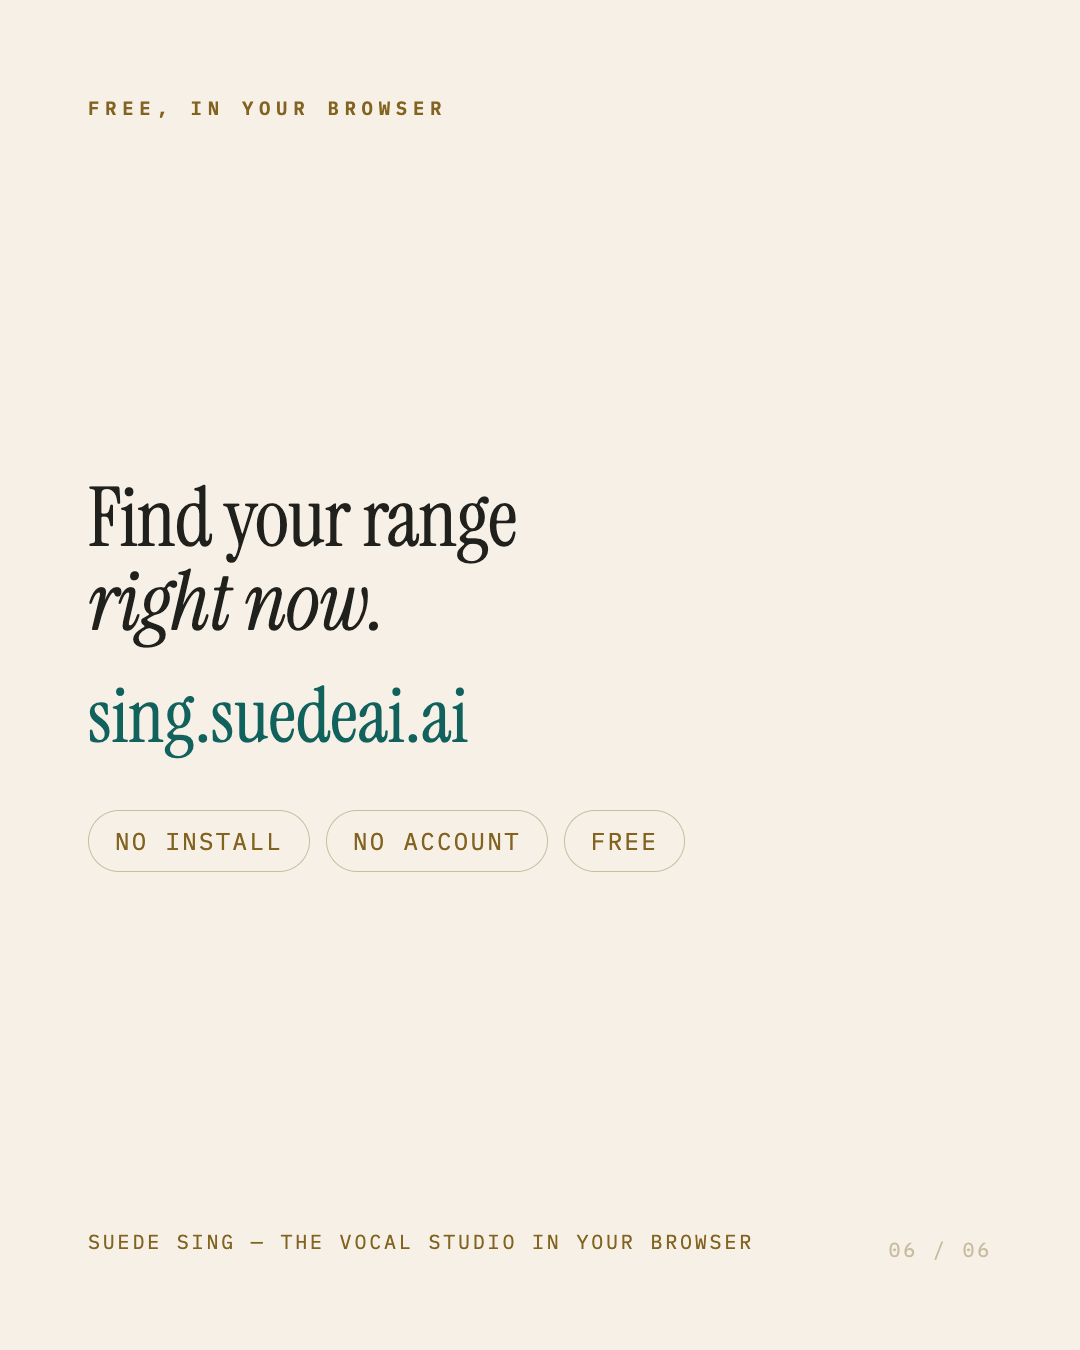
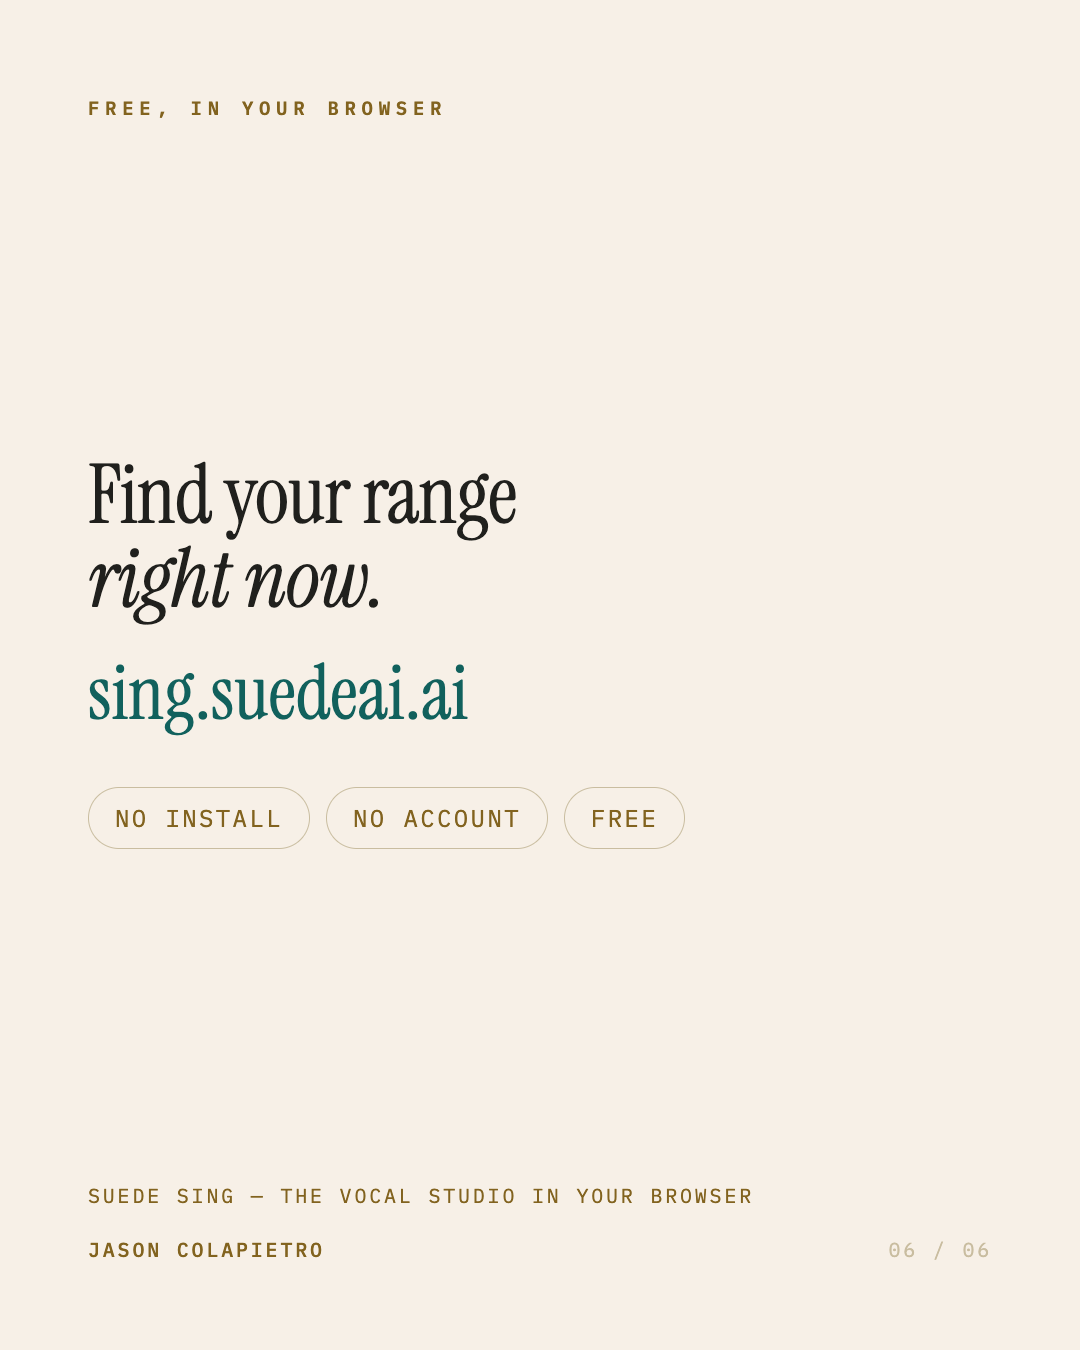
Put Jason's name on every carousel slide
These are his words — two of the three carousels quote his book chapters
verbatim, and the third draws on his own product's data — so the byline
travels with them. Bottom-left, balancing the kicker above it and paired
with the slide counter opposite.

On every slide rather than only the closing one, because carousels get
screenshotted and reposted a single slide at a time, and a byline that only
exists on slide six does not survive that.

The range carousel's closing slide already had a footer line on that
baseline; it lifts above the byline row rather than colliding with it.

diff --git a/marketing/social/assets/carousel-numbers/slides.html b/marketing/social/assets/carousel-numbers/slides.html
@@ -63,6 +63,19 @@
     font-family: "IBM Plex Mono", monospace;
     font-size: 20px; letter-spacing: 0.14em; color: var(--line2);
   }
+
+  /* Byline. These are Jason's words — the book chapters verbatim, the product
+     data from his own app — so his name travels with the slide. Bottom-left,
+     balancing the kicker top-left, and paired with the counter on the right.
+     Carousels get screenshotted a slide at a time, which is the whole reason
+     it goes on every slide rather than only the last one. */
+  .byline {
+    position: absolute; left: 88px; bottom: 88px;
+    font-family: "IBM Plex Mono", monospace;
+    font-weight: 500; font-size: 20px;
+    letter-spacing: 0.14em; text-transform: uppercase;
+    color: var(--label);
+  }
   .quote {
     font-family: "Instrument Serif", Georgia, serif;
     font-weight: 400; font-size: 76px; line-height: 1.1;
@@ -139,6 +152,7 @@
     </div>
   </div>
   <div class="count">01 / 07</div>
+  <div class="byline">Jason Colapietro</div>
 </section>
 
 <!-- 2 -->
@@ -151,6 +165,7 @@
     </div>
   </div>
   <div class="count">02 / 07</div>
+  <div class="byline">Jason Colapietro</div>
 </section>
 
 <!-- 3 — editorial summary of the chapter's causes. Deliberately not serif. -->
@@ -167,6 +182,7 @@
     </div>
   </div>
   <div class="count">03 / 07</div>
+  <div class="byline">Jason Colapietro</div>
 </section>
 
 <!-- 4 — the false range test, the most costly failure -->
@@ -179,6 +195,7 @@
     </div>
   </div>
   <div class="count">04 / 07</div>
+  <div class="byline">Jason Colapietro</div>
 </section>
 
 <!-- 5 — the ten-second test, drawn -->
@@ -211,6 +228,7 @@
     </div>
   </div>
   <div class="count">05 / 07</div>
+  <div class="byline">Jason Colapietro</div>
 </section>
 
 <!-- 6 — the tells, editorial summary -->
@@ -228,6 +246,7 @@
     </div>
   </div>
   <div class="count">06 / 07</div>
+  <div class="byline">Jason Colapietro</div>
 </section>
 
 <!-- 7 — the closer, then the book -->
@@ -243,6 +262,7 @@
     </div>
   </div>
   <div class="count">07 / 07</div>
+  <div class="byline">Jason Colapietro</div>
 </section>
 
 </body>

diff --git a/marketing/social/assets/carousel-range/slides.html b/marketing/social/assets/carousel-range/slides.html
@@ -99,7 +99,21 @@
     letter-spacing: 0.14em;
     color: var(--line2);
   }
+
+  /* Byline. These are Jason's words — the book chapters verbatim, the product
+     data from his own app — so his name travels with the slide. Bottom-left,
+     balancing the kicker top-left, and paired with the counter on the right.
+     Carousels get screenshotted a slide at a time, which is the whole reason
+     it goes on every slide rather than only the last one. */
+  .byline {
+    position: absolute; left: 88px; bottom: 88px;
+    font-family: "IBM Plex Mono", monospace;
+    font-weight: 500; font-size: 20px;
+    letter-spacing: 0.14em; text-transform: uppercase;
+    color: var(--label);
+  }
   .foot {
+    margin-bottom: 46px;
     font-family: "IBM Plex Mono", monospace;
     font-size: 20px;
     letter-spacing: 0.14em;
@@ -222,6 +236,7 @@
     </svg>
   </div>
   <div class="count">01 / 06</div>
+  <div class="byline">Jason Colapietro</div>
 </section>
 
 <!-- ============================= 2 ============================= -->
@@ -246,6 +261,7 @@
     </div>
   </div>
   <div class="count">02 / 06</div>
+  <div class="byline">Jason Colapietro</div>
 </section>
 
 <!-- ============================= 3 ============================= -->
@@ -260,6 +276,7 @@
     </div>
   </div>
   <div class="count" style="bottom:72px;right:72px">03 / 06</div>
+  <div class="byline">Jason Colapietro</div>
 </section>
 
 <!-- ============================= 4 ============================= -->
@@ -274,6 +291,7 @@
     </div>
   </div>
   <div class="count">04 / 06</div>
+  <div class="byline">Jason Colapietro</div>
 </section>
 
 <!-- ============================= 5 ============================= -->
@@ -291,6 +309,7 @@
     </div>
   </div>
   <div class="count">05 / 06</div>
+  <div class="byline">Jason Colapietro</div>
 </section>
 
 <!-- ============================= 6 ============================= -->
@@ -309,6 +328,7 @@
   </div>
   <div class="foot">Suede Sing &mdash; the vocal studio in your browser</div>
   <div class="count">06 / 06</div>
+  <div class="byline">Jason Colapietro</div>
 </section>
 
 <script>

diff --git a/marketing/social/assets/carousel-book/slides.html b/marketing/social/assets/carousel-book/slides.html
@@ -70,6 +70,19 @@
     font-size: 20px; letter-spacing: 0.14em; color: var(--line2);
   }
 
+  /* Byline. These are Jason's words — the book chapters verbatim, the product
+     data from his own app — so his name travels with the slide. Bottom-left,
+     balancing the kicker top-left, and paired with the counter on the right.
+     Carousels get screenshotted a slide at a time, which is the whole reason
+     it goes on every slide rather than only the last one. */
+  .byline {
+    position: absolute; left: 88px; bottom: 88px;
+    font-family: "IBM Plex Mono", monospace;
+    font-weight: 500; font-size: 20px;
+    letter-spacing: 0.14em; text-transform: uppercase;
+    color: var(--label);
+  }
+
   /*
     This carousel is a book excerpt, so the book's voice — the serif — carries
     the quoted lines, and Manrope is demoted to the connective tissue around
@@ -143,6 +156,7 @@
     </div>
   </div>
   <div class="count">01 / 06</div>
+  <div class="byline">Jason Colapietro</div>
 </section>
 
 <!-- 2 -->
@@ -155,6 +169,7 @@
     </div>
   </div>
   <div class="count">02 / 06</div>
+  <div class="byline">Jason Colapietro</div>
 </section>
 
 <!-- 3 -->
@@ -167,6 +182,7 @@
     </div>
   </div>
   <div class="count">03 / 06</div>
+  <div class="byline">Jason Colapietro</div>
 </section>
 
 <!-- 4 — the diagnostic payoff, the reason to save the post -->
@@ -183,6 +199,7 @@
     </div>
   </div>
   <div class="count">04 / 06</div>
+  <div class="byline">Jason Colapietro</div>
 </section>
 
 <!-- 5 — the sharpest line in the chapter -->
@@ -195,6 +212,7 @@
     </div>
   </div>
   <div class="count">05 / 06</div>
+  <div class="byline">Jason Colapietro</div>
 </section>
 
 <!-- 6 -->
@@ -209,6 +227,7 @@
     </div>
   </div>
   <div class="count">06 / 06</div>
+  <div class="byline">Jason Colapietro</div>
 </section>
 
 </body>
